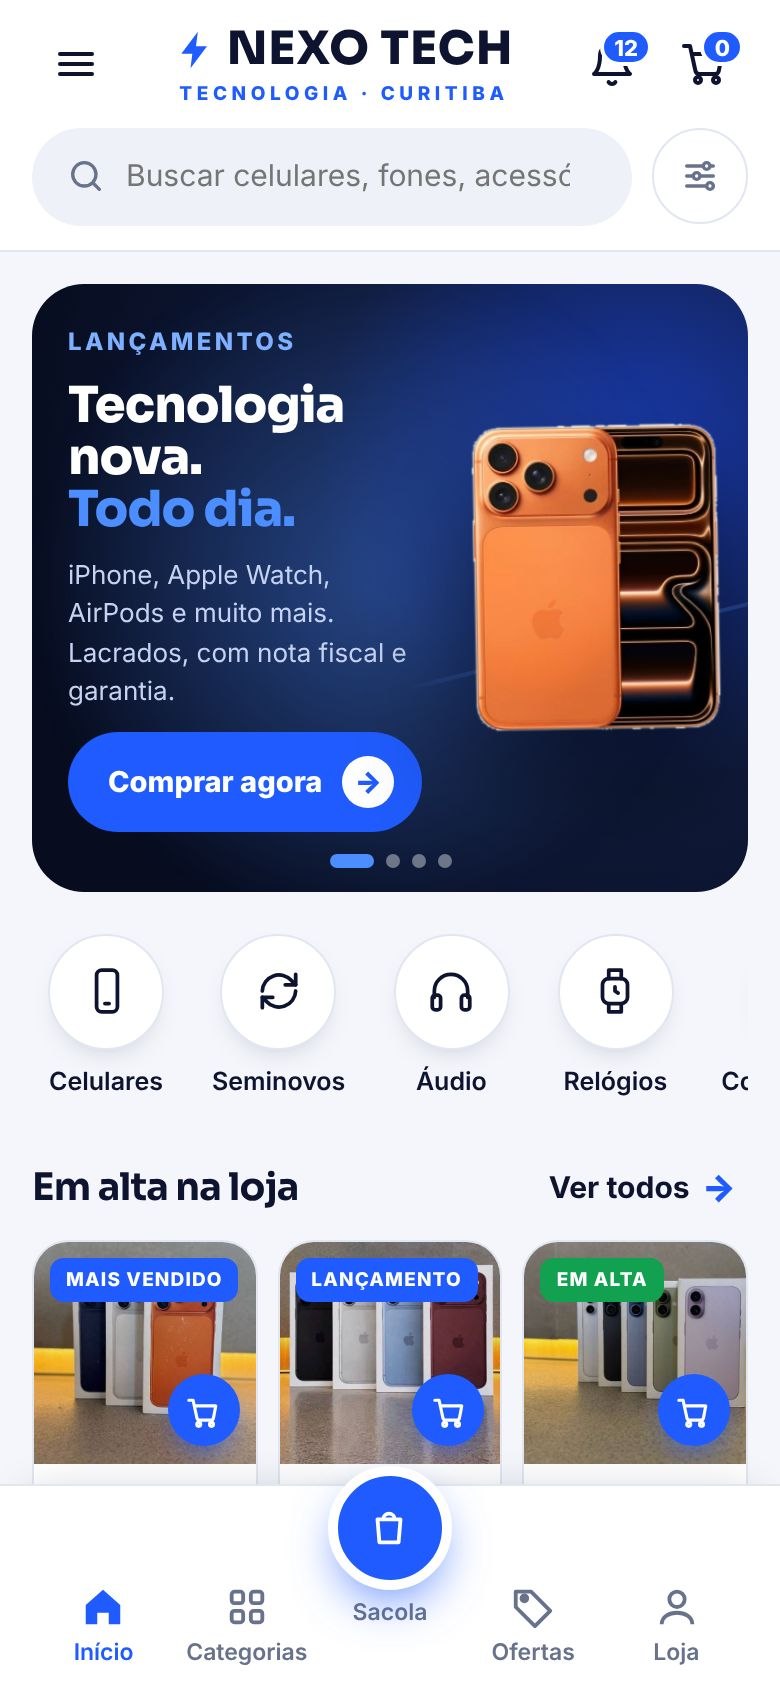
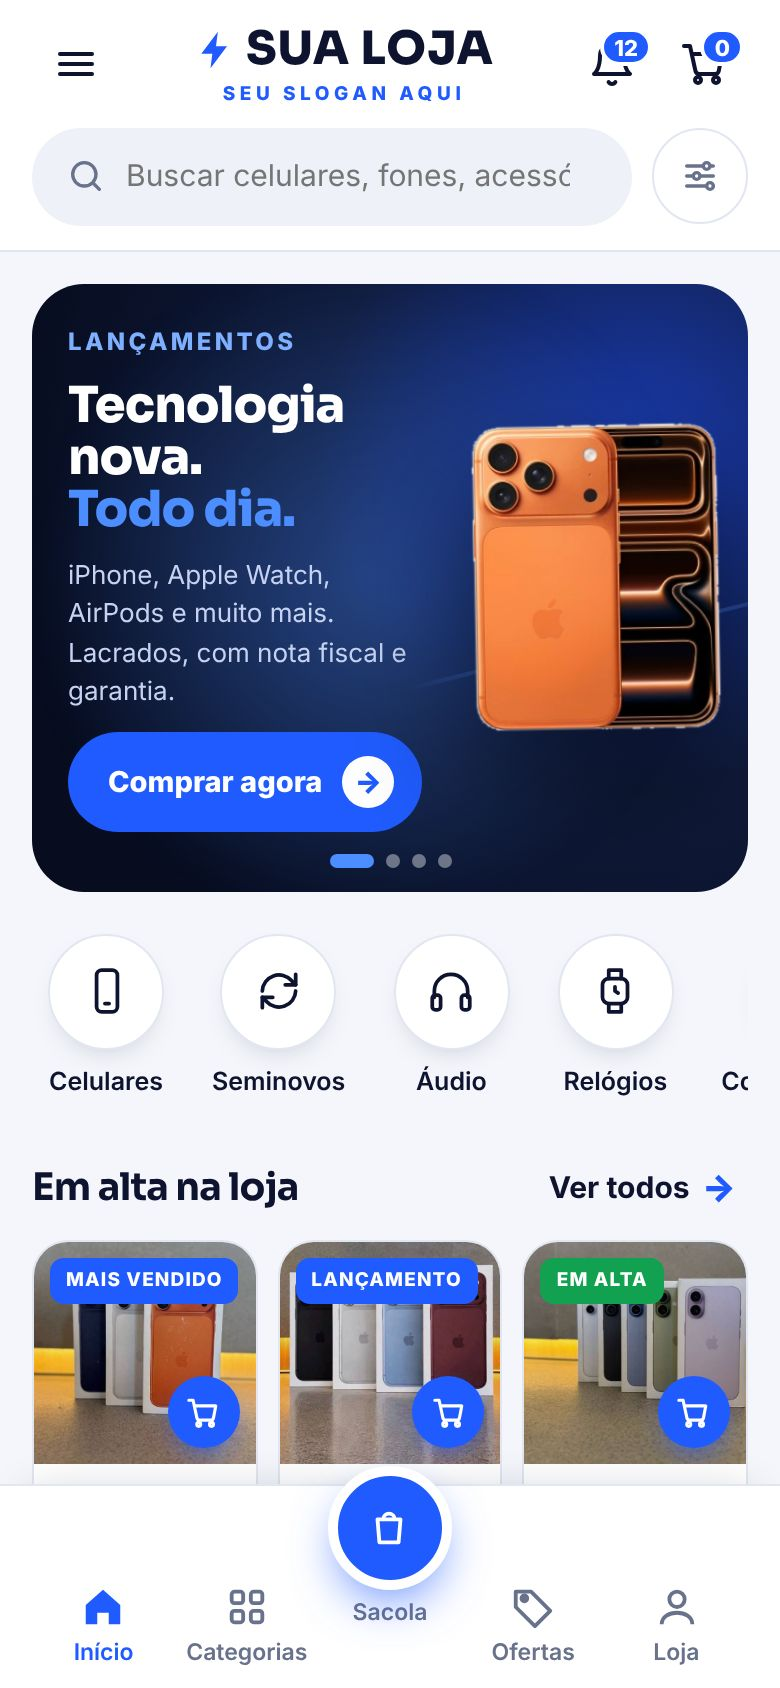
Exemplo estilo App sem nome de loja (Sua Loja)
Claude-Session: https://claude.ai/code/session_0136MPb51xWaHL8CkFnJFFmU

diff --git a/vitrio-site/exemplos/tech/index.html b/vitrio-site/exemplos/tech/index.html
@@ -3,7 +3,7 @@
 <head>
 <meta charset="utf-8">
 <meta name="viewport" content="width=device-width, initial-scale=1, viewport-fit=cover">
-<title>Nexo Tech</title>
+<title>Sua Loja</title>
 <meta name="description" content="Celulares, áudio, games e acessórios. Pix com desconto, até 12x e pedido direto no WhatsApp.">
 <meta name="theme-color" content="#0A1024">
 <link rel="preconnect" href="https://fonts.googleapis.com">
@@ -202,7 +202,7 @@ nav.tab .shop.bump span{animation:bump .45s}
 <header class="top"><div class="wrap">
   <div class="bar">
     <button class="icon-btn" type="button" data-go="categorias" aria-label="Categorias"><svg viewBox="0 0 24 24" fill="none" stroke="currentColor" stroke-width="2" stroke-linecap="round"><path d="M4 7h16M4 12h16M4 17h16"/></svg></button>
-    <a class="logo" href="#" data-go="inicio"><b><svg viewBox="0 0 24 24" fill="currentColor"><path d="M13 2 4 14h6l-1 8 9-12h-6z"/></svg>NEXO TECH</b><small>TECNOLOGIA · CURITIBA</small></a>
+    <a class="logo" href="#" data-go="inicio"><b><svg viewBox="0 0 24 24" fill="currentColor"><path d="M13 2 4 14h6l-1 8 9-12h-6z"/></svg>SUA LOJA</b><small>SEU SLOGAN AQUI</small></a>
     <div class="right">
       <button class="icon-btn" type="button" data-go="ofertas" aria-label="Ofertas"><svg viewBox="0 0 24 24" fill="none" stroke="currentColor" stroke-width="2" stroke-linecap="round" stroke-linejoin="round"><path d="M6 8a6 6 0 0 1 12 0c0 7 3 9 3 9H3s3-2 3-9"/><path d="M10.3 21a1.94 1.94 0 0 0 3.4 0"/></svg><span class="badge" id="nOfertas">0</span></button>
       <button class="icon-btn" type="button" data-cart aria-label="Abrir sacola"><svg viewBox="0 0 24 24" fill="none" stroke="currentColor" stroke-width="2" stroke-linecap="round" stroke-linejoin="round"><circle cx="9" cy="20" r="1.5"/><circle cx="18" cy="20" r="1.5"/><path d="M2 3h3l2.7 12.4a2 2 0 0 0 2 1.6h7.7a2 2 0 0 0 2-1.6L21 7H6"/></svg><span class="badge" id="nCart">0</span></button>
@@ -250,11 +250,11 @@ nav.tab .shop.bump span{animation:bump .45s}
 
   <section data-page="conta" hidden>
     <div class="panel">
-      <h2>Nexo Tech</h2>
-      <div class="line"><svg viewBox="0 0 24 24" fill="none" stroke="currentColor" stroke-width="2"><path d="M12 21s-7-6.2-7-11a7 7 0 0 1 14 0c0 4.8-7 11-7 11z"/><circle cx="12" cy="10" r="2.5"/></svg><span>Rua Exemplo, 300 · Centro · Curitiba - PR</span></div>
+      <h2>Sua Loja</h2>
+      <div class="line"><svg viewBox="0 0 24 24" fill="none" stroke="currentColor" stroke-width="2"><path d="M12 21s-7-6.2-7-11a7 7 0 0 1 14 0c0 4.8-7 11-7 11z"/><circle cx="12" cy="10" r="2.5"/></svg><span>Endereço da sua loja</span></div>
       <div class="line"><svg viewBox="0 0 24 24" fill="none" stroke="currentColor" stroke-width="2"><circle cx="12" cy="12" r="9"/><path d="M12 7v5l3 2"/></svg><span>Segunda a sexta, das 9h às 19h · Sábado, das 9h às 14h</span></div>
       <div class="line"><svg viewBox="0 0 24 24" fill="none" stroke="currentColor" stroke-width="2"><rect x="3" y="6" width="18" height="12" rx="2"/><path d="M3 10h18"/></svg><span>Pix com 5% de desconto · Cartão em até 12x · Débito · Seu usado na troca</span></div>
-      <a class="wa-btn" href="https://wa.me/?text=Ol%C3%A1%2C%20Nexo%20Tech!%20Vim%20pelo%20site%20e%20tenho%20uma%20d%C3%BAvida." target="_blank" rel="noopener">Falar no WhatsApp</a>
+      <a class="wa-btn" href="https://wa.me/?text=Ol%C3%A1%2C%20Sua%20Loja!%20Vim%20pelo%20site%20e%20tenho%20uma%20d%C3%BAvida." target="_blank" rel="noopener">Falar no WhatsApp</a>
     </div>
     <div class="panel">
       <h2>Dúvidas frequentes</h2>
@@ -418,7 +418,7 @@ function desenhaSacola(){
 }
 function link(){
   const a=$("#enviar");if(!a)return;const sub=cart.reduce((t,i)=>t+pr(i),0),frete=ent.tipo==="Motoboy"?15:0,tot=(ent.pag==="Pix"?sub*(1-PIX):sub)+frete;
-  let m="Olá, Nexo Tech! Quero fazer um pedido:\n\n"+cart.map(i=>{const p=byId(i.id);return `• ${i.q}x ${p.nome}${p.v[i.v][0]!=="Única"?" "+p.v[i.v][0]:""} — ${brl(pr(i))}`}).join("\n")+`\n\nTotal: ${brl(tot)}\nEntrega: ${ent.tipo}\nPagamento: ${ent.pag}`;
+  let m="Olá, Sua Loja! Quero fazer um pedido:\n\n"+cart.map(i=>{const p=byId(i.id);return `• ${i.q}x ${p.nome}${p.v[i.v][0]!=="Única"?" "+p.v[i.v][0]:""} — ${brl(pr(i))}`}).join("\n")+`\n\nTotal: ${brl(tot)}\nEntrega: ${ent.tipo}\nPagamento: ${ent.pag}`;
   const n=$("#nome");if(n&&n.value.trim())m+=`\nNome: ${n.value.trim()}`;a.href="https://wa.me/?text="+encodeURIComponent(m);
 }
 $("#drB").addEventListener("input",link);
